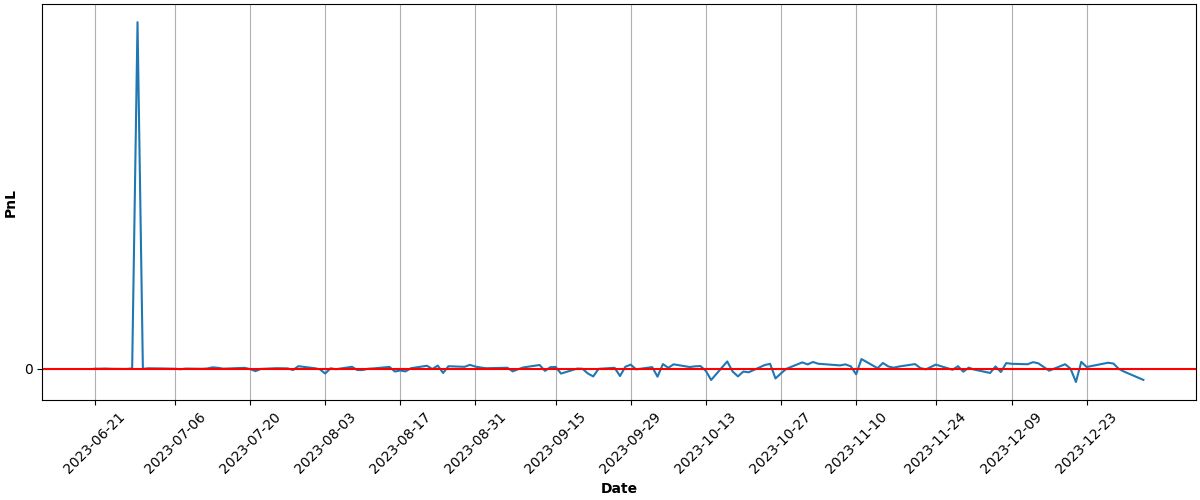
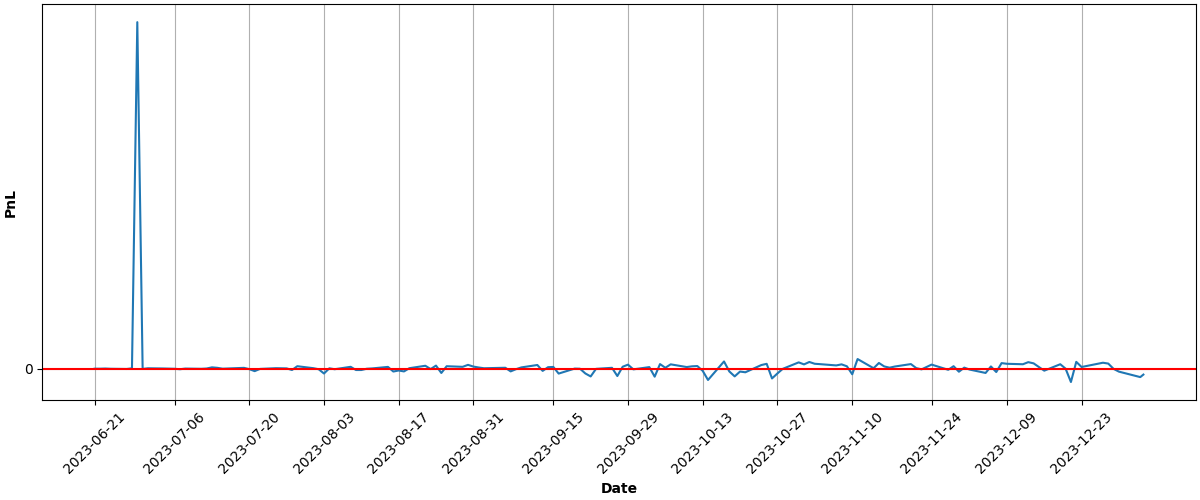
Automated Buy At Wed Jan  3 15:04:32 UTC 2024 Run ID 7398897591

diff --git a/README.md b/README.md
@@ -68,9 +68,9 @@ Results
 
 | Asset | Average Price | Current Price | ROI | 📈 |
 | --- | --- | --- | --- | --- |
-| FNGU | $179.998912111 | $218.31 | 21.28% | &#128994;&#128515; |
-| SVIX | $29.810575439 | $36.86 | 23.65% | &#128994;&#128515; |
-| **Total** |  |  | **22.58%** | &#128994;&#128518; |
+| FNGU | $180.195632394 | $213.0397 | 18.23% | &#128994;&#128515; |
+| SVIX | $29.810575439 | $36.8 | 23.45% | &#128994;&#128515; |
+| **Total** |  |  | **21.07%** | &#128994;&#128518; |
 
 ### PnL over time (calculations may not be accurate):
 
@@ -81,6 +81,6 @@ Results
 ---
 
 
-Updated at 2024-01-02 15:04:44
+Updated at 2024-01-03 15:04:50
 
 
